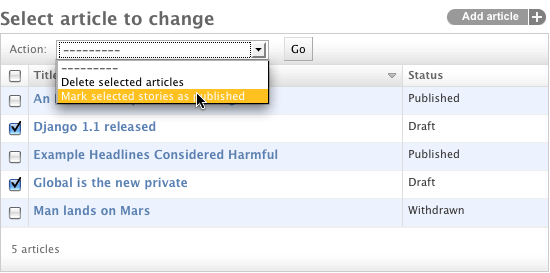
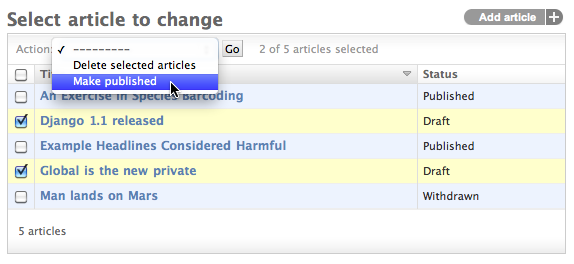
Fixed #10615 - Added selection counter to admin change list. Thanks to Martin Mahner for the idea and initial patch.
--HG--
extra : convert_revision : svn%3Abcc190cf-cafb-0310-a4f2-bffc1f526a37/django/trunk%4012107

diff --git a/django/contrib/admin/media/js/actions.js b/django/contrib/admin/media/js/actions.js
@@ -1,10 +1,22 @@
 var Actions = {
     init: function() {
-        var selectAll = document.getElementById('action-toggle');
+        counterSpans = document.getElementsBySelector('span._acnt');
+        counterContainer = document.getElementsBySelector('span.action_counter');
+        actionCheckboxes = document.getElementsBySelector('tr input.action-select');
+        selectAll = document.getElementById('action-toggle');
+        for(var i = 0; i < counterContainer.length; i++) {
+            counterContainer[i].style.display = 'inline';
+        }
         if (selectAll) {
             selectAll.style.display = 'inline';
             addEvent(selectAll, 'click', function() {
                 Actions.checker(selectAll.checked);
+                Actions.counter();
+            });
+        }
+        for(var i = 0; i < actionCheckboxes.length; i++) {
+            addEvent(actionCheckboxes[i], 'click', function() {
+                Actions.counter();
             });
         }
         var changelistTable = document.getElementsBySelector('#changelist table')[0];
@@ -16,6 +28,7 @@ var Actions = {
                 if (target.className == 'action-select') {
                     var tr = target.parentNode.parentNode;
                     Actions.toggleRow(tr, target.checked);
+                    Actions.checked();
                 }
             });
         }
@@ -27,11 +40,24 @@ var Actions = {
             tr.className = tr.className.replace(' selected', '');
         }  
     },
+    checked: function() {
+        selectAll.checked = false;
+    },
     checker: function(checked) {
-        var actionCheckboxes = document.getElementsBySelector('tr input.action-select');
         for(var i = 0; i < actionCheckboxes.length; i++) {
             actionCheckboxes[i].checked = checked;
             Actions.toggleRow(actionCheckboxes[i].parentNode.parentNode, checked);
+        }
+    },
+    counter: function() {
+        counter = 0;
+        for(var i = 0; i < actionCheckboxes.length; i++) {
+            if(actionCheckboxes[i].checked){
+                counter++;
+            }
+        }
+        for(var i = 0; i < counterSpans.length; i++) {
+            counterSpans[i].innerHTML = counter;
         }
     }
 };

diff --git a/django/contrib/admin/templates/admin/actions.html b/django/contrib/admin/templates/admin/actions.html
@@ -2,4 +2,9 @@
 <div class="actions">
     {% for field in action_form %}<label>{{ field.label }} {{ field }}</label>{% endfor %}
     <button type="submit" class="button" title="{% trans "Run the selected action" %}" name="index" value="{{ action_index|default:0 }}">{% trans "Go" %}</button>
+    {% if actions_selection_counter %}
+    <span class="action_counter">
+      {% blocktrans with cl.result_count as total_count %}<span class="_acnt">0</span> of {{ total_count }} {{ module_name }} selected{% endblocktrans %}
+    </span>
+    {% endif %}
 </div>

diff --git a/django/contrib/admin/media/css/changelists.css b/django/contrib/admin/media/css/changelists.css
@@ -228,6 +228,12 @@
     border-right: 1px solid #ddd;
 }
 
+.action_counter{
+    font-size: 11px;
+    margin: 0 0.5em;
+    display: none;
+}
+
 #changelist table input {
     margin: 0;
 }

diff --git a/django/contrib/admin/options.py b/django/contrib/admin/options.py
@@ -210,6 +210,7 @@ class ModelAdmin(BaseModelAdmin):
     action_form = helpers.ActionForm
     actions_on_top = True
     actions_on_bottom = False
+    actions_selection_counter = True
 
     def __init__(self, model, admin_site):
         self.model = model
@@ -1024,7 +1025,13 @@ class ModelAdmin(BaseModelAdmin):
         else:
             action_form = None
 
+        if cl.result_count == 1:
+            module_name = force_unicode(opts.verbose_name)
+        else:
+            module_name = force_unicode(opts.verbose_name_plural)
+
         context = {
+            'module_name': module_name,
             'title': cl.title,
             'is_popup': cl.is_popup,
             'cl': cl,
@@ -1035,6 +1042,7 @@ class ModelAdmin(BaseModelAdmin):
             'action_form': action_form,
             'actions_on_top': self.actions_on_top,
             'actions_on_bottom': self.actions_on_bottom,
+            'actions_selection_counter': self.actions_selection_counter,
         }
         context.update(extra_context or {})
         context_instance = template.RequestContext(request, current_app=self.admin_site.name)

diff --git a/tests/regressiontests/admin_views/tests.py b/tests/regressiontests/admin_views/tests.py
@@ -1209,6 +1209,13 @@ class AdminActionsTest(TestCase):
         self.assertContains(response, msg)
         self.failUnlessEqual(Subscriber.objects.count(), 2)
 
+    def test_selection_counter(self):
+        """
+        Check if the selection counter is there.
+        """
+        response = self.client.get('/test_admin/admin/admin_views/subscriber/')
+        self.assertContains(response, '<span class="_acnt">0</span> of 2 subscribers selected')
+
 
 class TestCustomChangeList(TestCase):
     fixtures = ['admin-views-users.xml']
